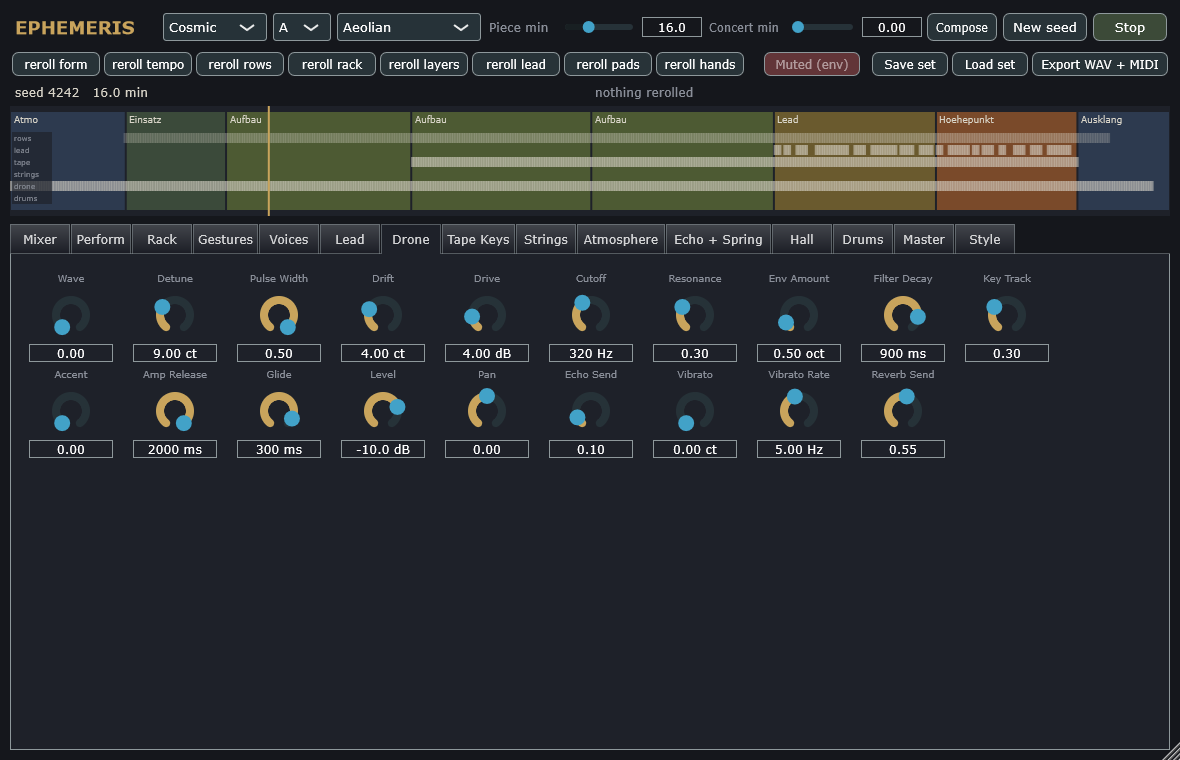
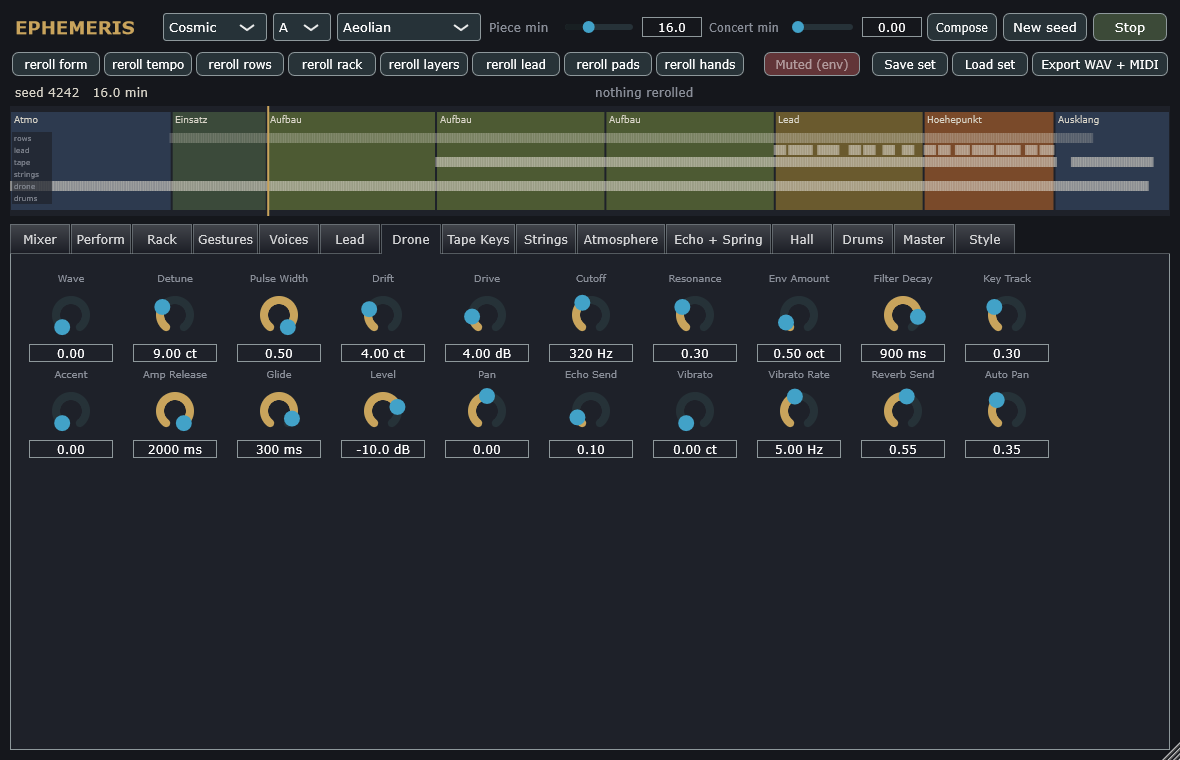
A second echo for the counter rows; manual for the style guide's further rules
Module echo2: a cleaner tape echo on a send of its own (row.echo2), with its
own time, feedback, tone, ping-pong and return, its repeats into the hall and
the rooms' stem. The composer sends the counter rows after the first into it,
in eighths or quarter triplets (1/4T, new in both echoes), with less of the
first echo (the style guide's 4.4, 4.5). The mixer's row strips get an Echo 2
knob and every strip keeps room for four, so the faders line up. Manual,
screenshots, PLAN and README for the thirds, the phase modes, the random
steps, the stereo field, the album form and the second echo.
New reference hashes.

diff --git a/Core/src/Engine.cpp b/Core/src/Engine.cpp
@@ -88,6 +88,7 @@ void Engine::load(const Score& score)
     voices_.prepare(sampleRate_, voiceSeeds);
     echo_.prepare(sampleRate_, 2.5, mixSeed(score_.seed, 200));
     bbd_.prepare(sampleRate_, 2.5, mixSeed(score_.seed, 210));
+    echo2_.prepare(sampleRate_, 2.5, mixSeed(score_.seed, 220));
     reverb_.prepare(sampleRate_);
     plate_.prepare(sampleRate_);
     tape_.prepare(sampleRate_, mixSeed(score_.seed, 500));
@@ -148,9 +149,9 @@ VoiceSettings Engine::voiceSettings(Module m, int instance, bool vibrato) const
     return s;
 }
 
-void Engine::setStrip(int s, float levelDb, float pan, float echo, float reverb, float width)
+void Engine::setStrip(int s, float levelDb, float pan, float echo, float reverb, float width, float echo2)
 {
-    const float in[5] = { levelDb, pan, echo, reverb, width };
+    const float in[6] = { levelDb, pan, echo, reverb, width, echo2 };
     if (!changed(cache_.strip[s], in, cache_.valid)) return;
     Strip& st = strips_[s];
     const float level = dbToGain(levelDb);
@@ -159,6 +160,7 @@ void Engine::setStrip(int s, float levelDb, float pan, float echo, float reverb,
     st.gainR = level * std::sin(a) * width;
     st.echo = echo;
     st.reverb = reverb;
+    st.echo2 = echo2;
 }
 
 void Engine::updateCell()
@@ -199,7 +201,8 @@ void Engine::updateCell()
             const float depth = played(params_.id(m, 0, lead::AutoPan));
             if (depth > 0.0f) pan += depth * static_cast<float>(std::sin(2.0 * 3.14159265358979 * 0.05 * seconds()));
         }
-        setStrip(r, s(row::Level, lead::Level), pan, s(row::EchoSend, lead::EchoSend), s(row::ReverbSend, lead::ReverbSend));
+        setStrip(r, s(row::Level, lead::Level), pan, s(row::EchoSend, lead::EchoSend), s(row::ReverbSend, lead::ReverbSend), 1.0f,
+                 row ? played(params_.id(Module::Row, r, row::Echo2Send)) : 0.0f);
     }
 
     // The tape keys, the string machine, the drums, the atmosphere.
@@ -293,6 +296,22 @@ void Engine::updateCell()
         if (bbdOn_) bbd_.set(es); else echo_.set(es);
     }
     echoReturn_ = dbToGain(knob(Module::Echo, echo::Return));
+    // The second echo: clean, a little wow, its own time and return.
+    EchoSettings e2;
+    e2.delaySeconds = echoTimeBeats(static_cast<EchoTime>(static_cast<int>(knob(Module::Echo2, echo2::Time)))) * 60.0 / bpm;
+    e2.feedback = knob(Module::Echo2, echo2::Feedback);
+    e2.toneHz = knob(Module::Echo2, echo2::Tone);
+    e2.wowMs = 0.3f;
+    e2.flutterMs = 0.03f;
+    e2.driveDb = 2.0f;
+    e2.pingPong = knob(Module::Echo2, echo2::PingPong) >= 0.5f;
+    const EchoSettings& l2 = cache_.echo2;
+    if (!cache_.valid || l2.delaySeconds != e2.delaySeconds || l2.feedback != e2.feedback || l2.toneHz != e2.toneHz
+        || l2.pingPong != e2.pingPong) {
+        cache_.echo2 = e2;
+        echo2_.set(e2);
+    }
+    echo2Return_ = dbToGain(knob(Module::Echo2, echo2::Return));
     plateOn_ = knob(Module::Reverb, reverb::Type) >= 0.5f;
     const float hall[7] = { knob(Module::Reverb, reverb::Size), knob(Module::Reverb, reverb::Decay), knob(Module::Reverb, reverb::Damping),
                             knob(Module::Reverb, reverb::PreDelay) * 0.001f * static_cast<float>(sampleRate_),
@@ -344,6 +363,8 @@ void Engine::mix(int source, const float* xl, const float* xr, int n, const Buse
         if (echoSend) { b.echoL[i] += l * echo; b.echoR[i] += r * echo; }
         b.hallL[i] += l * strip.reverb;
         b.hallR[i] += r * strip.reverb;
+        b.echo2L[i] += l * strip.echo2;
+        b.echo2R[i] += r * strip.echo2;
     }
     if (metering_) {
         // What the strip put into the mix, read again: the sums above are not touched.
@@ -366,14 +387,16 @@ void Engine::mix(int source, const float* xl, const float* xr, int n, const Buse
 
 void Engine::renderSpan(float* L, float* R, int n)
 {
-    float bufL[kCell], bufR[kCell], echoL[kCell], echoR[kCell], hallInL[kCell], hallInR[kCell];
+    float bufL[kCell], bufR[kCell], echoL[kCell], echoR[kCell], hallInL[kCell], hallInR[kCell], echo2L[kCell], echo2R[kCell];
     std::fill(L, L + n, 0.0f);
     std::fill(R, R + n, 0.0f);
     std::fill(echoL, echoL + n, 0.0f);
     std::fill(echoR, echoR + n, 0.0f);
     std::fill(hallInL, hallInL + n, 0.0f);
     std::fill(hallInR, hallInR + n, 0.0f);
-    const Buses b{ L, R, echoL, echoR, hallInL, hallInR };
+    std::fill(echo2L, echo2L + n, 0.0f);
+    std::fill(echo2R, echo2R + n, 0.0f);
+    const Buses b{ L, R, echoL, echoR, hallInL, hallInR, echo2L, echo2R };
     if (metering_) meterCount_ += n;
 
     // The sources, each through its strip, in a fixed order (the order of the sums is part of the result).
@@ -418,10 +441,13 @@ void Engine::renderSpan(float* L, float* R, int n)
         wetL[i] += sprL[i] * springReturn_ / std::max(echoReturn_, 1e-6f);
         wetR[i] += sprR[i] * springReturn_ / std::max(echoReturn_, 1e-6f);
     }
-    // The echo's repeats go into the hall too, as they do on a desk where the echo returns to a channel.
+    // The second echo, beside the first.
+    float wet2L[kCell] = {}, wet2R[kCell] = {};
+    echo2_.process(echo2L, echo2R, wet2L, wet2R, n);
+    // The echoes' repeats go into the hall too, as they do on a desk where the echo returns to a channel.
     for (int i = 0; i < n; ++i) {
-        hallInL[i] += wetL[i] * echoReturn_ * 0.5f;
-        hallInR[i] += wetR[i] * echoReturn_ * 0.5f;
+        hallInL[i] += wetL[i] * echoReturn_ * 0.5f + wet2L[i] * echo2Return_ * 0.5f;
+        hallInR[i] += wetR[i] * echoReturn_ * 0.5f + wet2R[i] * echo2Return_ * 0.5f;
     }
     if (plateOn_) {
         std::fill(hallL, hallL + n, 0.0f);
@@ -432,11 +458,11 @@ void Engine::renderSpan(float* L, float* R, int n)
     }
     for (int i = 0; i < n; ++i) {
         if (stemL_ != nullptr) {
-            stemL_[kChannels][spanAt_ + i] = wetL[i] * echoReturn_ + hallL[i] * reverbReturn_;
-            stemR_[kChannels][spanAt_ + i] = wetR[i] * echoReturn_ + hallR[i] * reverbReturn_;
+            stemL_[kChannels][spanAt_ + i] = wetL[i] * echoReturn_ + wet2L[i] * echo2Return_ + hallL[i] * reverbReturn_;
+            stemR_[kChannels][spanAt_ + i] = wetR[i] * echoReturn_ + wet2R[i] * echo2Return_ + hallR[i] * reverbReturn_;
         }
-        L[i] = (L[i] + wetL[i] * echoReturn_ + hallL[i] * reverbReturn_) * master_;
-        R[i] = (R[i] + wetR[i] * echoReturn_ + hallR[i] * reverbReturn_) * master_;
+        L[i] = (L[i] + wetL[i] * echoReturn_ + wet2L[i] * echo2Return_ + hallL[i] * reverbReturn_) * master_;
+        R[i] = (R[i] + wetR[i] * echoReturn_ + wet2R[i] * echo2Return_ + hallR[i] * reverbReturn_) * master_;
     }
     comp_.process(L, R, n);
     limiter_.process(L, R, n);

diff --git a/Core/include/eph/Engine.h b/Core/include/eph/Engine.h
@@ -147,19 +147,21 @@ private:
         float gainR = 0.0f;     ///< level into the right channel
         float echo = 0.0f;      ///< send into the tape echo (and its springs)
         float reverb = 0.0f;    ///< send into the hall
+        float echo2 = 0.0f;     ///< send into the second echo (the rows)
     };
     /** @brief The buses of one span: the mix, the echo send, the hall send. */
     struct Buses {
         float* L; float* R;             ///< the dry mix (the output buffers)
         float* echoL; float* echoR;     ///< into the tape echo
         float* hallL; float* hallR;     ///< into the hall
+        float* echo2L; float* echo2R;   ///< into the second echo
     };
     void updateCell();
     void renderSpan(float* L, float* R, int n);
     /** @brief A voice's settings from a module laid out like the voice table (voice, lead, drone). */
     VoiceSettings voiceSettings(Module m, int instance, bool vibrato) const;
     /** @brief Level, equal-power pan (times @p width) and sends of strip @p s. */
-    void setStrip(int s, float levelDb, float pan, float echo, float reverb, float width = 1.0f);
+    void setStrip(int s, float levelDb, float pan, float echo, float reverb, float width = 1.0f, float echo2 = 0.0f);
     /** @brief Adds source @p source's output through its strip to the buses (and the meter); @p echoSend false
      *         leaves the echo send alone. */
     void mix(int source, const float* xl, const float* xr, int n, const Buses& b, bool echoSend = true);
@@ -187,13 +189,14 @@ private:
     Atmos atmos_;
     TapeEcho echo_;
     BbdEcho bbd_;          ///< echo.type BBD instead of the tape echo, on the same send
+    TapeEcho echo2_;       ///< the second echo (module echo2): its own time for the counter rows
     Plate plate_;          ///< reverb.type Plate instead of the hall, on the same send
     bool bbdOn_ = false, plateOn_ = false;   ///< echo.type and reverb.type at the current cell
     Spring spring_;
     Reverb reverb_;
     BusCompressor comp_;
     TruePeakLimiter limiter_;
-    float echoReturn_ = 0.0f, springReturn_ = 0.0f, reverbReturn_ = 0.0f, master_ = 1.0f;
+    float echoReturn_ = 0.0f, springReturn_ = 0.0f, reverbReturn_ = 0.0f, master_ = 1.0f, echo2Return_ = 0.0f;
     int transpose_ = 0;   ///< perform.transpose at the current cell, for the notes that start
     int tapeSingers_ = kSingers;   ///< setTapeSingers()
     float* const* stemL_ = nullptr;   ///< setStems(), left
@@ -210,13 +213,14 @@ private:
     struct SetCache {
         bool valid = false;                   ///< false: every setter runs at the next cell
         VoiceSettings voice[kModVoices];      ///< ModVoiceBank::set
-        float strip[kSources][5] = {};        ///< setStrip: level, pan, echo, reverb, width
+        float strip[kSources][6] = {};        ///< setStrip: level, pan, echo, reverb, width, echo 2
         TapeSettings tape;                    ///< TapeKeys::set
         StringSettings strings;               ///< StringMachine::set
         DrumSettings drums;                   ///< DrumKit::set
         AtmosSettings atmos;                  ///< Atmos::set
         EchoSettings echo;                    ///< TapeEcho::set, BbdEcho::set
         int echoType = -1;                    ///< which of the two took it
+        EchoSettings echo2;                   ///< the second echo's TapeEcho::set
         float reverb[7] = {};                 ///< Reverb::set or Plate::set, and which
         float spring[2] = {};                 ///< Spring::set
         float compress = 0.0f, ceiling = 0.0f;   ///< BusCompressor::set, TruePeakLimiter::set

diff --git a/Core/src/Params.cpp b/Core/src/Params.cpp
@@ -24,12 +24,12 @@ const char* const kRegistrationNames[] = { "Violins", "Violas", "Cellos", "Basse
 const char* const kRowDivisionNames[] = { "1/4", "1/8", "1/8 T", "1/16", "1/16 T", "1/32", "1 Bar", "2 Bars", "4 Bars" };
 const char* const kRowDirectionNames[] = { "Forward", "Backward", "Pendulum", "Random Walk" };
 const char* const kRowModeNames[] = { "Notes", "Transposer" };
-const char* const kEchoTimeNames[] = { "1/16", "1/8", "3/16", "1/4", "3/8", "1/2" };
+const char* const kEchoTimeNames[] = { "1/16", "1/8", "3/16", "1/4", "3/8", "1/2", "1/4T" };
 const char* const kTapeSetNames[] = { "Choir", "Strings", "Flute" };
 
 double echoTimeBeats(EchoTime t)
 {
-    static const double kBeats[] = { 0.25, 0.5, 0.75, 1.0, 1.5, 2.0 };
+    static const double kBeats[] = { 0.25, 0.5, 0.75, 1.0, 1.5, 2.0, 2.0 / 3.0 };
     const int i = static_cast<int>(t);
     return i >= 0 && i < static_cast<int>(EchoTime::Count) ? kBeats[i] : 0.75;
 }
@@ -80,6 +80,7 @@ const ParamDesc kRowParams[row::Count] = {
     { "echo",      "Echo Send",  "",      0.0f,  1.0f,  0.3f, Curve::Linear },
     { "mode",      "Mode",       "",      0.0f,  1.0f,  0.0f, Curve::Choice, kRowModeNames },
     { "reverb",    "Reverb Send", "",     0.0f,  1.0f,  0.3f, Curve::Linear },
+    { "echo2",     "Echo 2 Send", "",     0.0f,  1.0f,  0.0f, Curve::Linear },
 };
 
 /**
@@ -279,7 +280,7 @@ const ParamDesc kReverbParams[reverb::Count] = {
 };
 
 const ParamDesc kEchoParams[echo::Count] = {
-    { "time",      "Time",        "",       0.0f,    5.0f,    2.0f, Curve::Choice, kEchoTimeNames },
+    { "time",      "Time",        "",       0.0f,    6.0f,    2.0f, Curve::Choice, kEchoTimeNames },
     { "feedback",  "Feedback",    "",       0.0f,    1.1f,    0.45f, Curve::Linear },   // above 1: runaway, held by the tape
     { "tone",      "Tone",        "Hz",   800.0f, 12000.0f, 3500.0f, Curve::Log },      // loop low pass
     { "wow",       "Wow",         "ms",     0.0f,    4.0f,    0.6f, Curve::Linear },
@@ -321,6 +322,15 @@ struct ModuleSpec {
     const char* const* instanceNames = nullptr;   ///< prefixes of the instances instead of prefix + number
 };
 
+/** The second echo (Engine: its own tape echo, a little wow, no springs). */
+const ParamDesc kEcho2Params[echo2::Count] = {
+    { "time",      "Echo 2 Time",     "",       0.0f,    6.0f,    1.0f, Curve::Choice, kEchoTimeNames },
+    { "feedback",  "Echo 2 Feedback", "",       0.0f,    1.0f,    0.3f, Curve::Linear },
+    { "tone",      "Echo 2 Tone",     "Hz",   800.0f, 12000.0f, 5000.0f, Curve::Log },
+    { "pingpong",  "Echo 2 Ping-Pong", "",      0.0f,    1.0f,    1.0f, Curve::Toggle },
+    { "return",    "Echo 2 Return",   "dB",   -60.0f,    6.0f,   -6.0f, Curve::Linear },
+};
+
 const ModuleSpec kModules[static_cast<int>(Module::Count)] = {
     { "compose", kComposeParams, compose::Count, 1 },
     { "row",     kRowParams,     row::Count,     kRows },
@@ -338,6 +348,7 @@ const ModuleSpec kModules[static_cast<int>(Module::Count)] = {
     { "perform", kPerformParams, perform::Count, 1 },
     { "cue",     kCueParams,     cue::Count,     1 },
     { "custom",  kCustomParams,  custom::Count,  1 },
+    { "echo2",   kEcho2Params,   echo2::Count,   1 },
 };
 
 bool isDiscrete(Curve c) { return c == Curve::Int || c == Curve::Choice || c == Curve::Toggle; }

diff --git a/Core/include/eph/Params.h b/Core/include/eph/Params.h
@@ -79,6 +79,8 @@ enum class Module : int { Compose = 0, Row, Master,
                           Cue,
                           /** Phase 5: a style profile of the user's own (the Style tab; Style.h, customProfile). */
                           Custom,
+                          /** 25.09.2026: a second echo, its own time for the counter rows (the style guide's 4.4, 4.5). */
+                          Echo2,
                           Count };
 
 constexpr int kRows = 8;   ///< instances of the row module (the rows of the rack) and of the voice module
@@ -102,7 +104,9 @@ enum : int { Active, Length, Division, Direction, Octave, Transpose, Mutation, G
              // Phase 2: what the row does -- plays notes, or transposes the rows that play (PLAN 5.1).
              Mode,
              // Phase 3: the send into the hall.
-             ReverbSend, Count };
+             ReverbSend,
+             // 25.09.2026: the send into the second echo.
+             Echo2Send, Count };
 }
 /** @brief Parameters of the master section. */
 namespace master {
@@ -193,13 +197,19 @@ enum : int { Size, Decay, Damping, PreDelay, LowCut, HighCut, Return,
 }
 static_assert(static_cast<int>(lead::Glide) == static_cast<int>(voice::Glide), "the first parameters of the lead are those of the voice, in the same order");
 /** @brief Parameters of the tape echo (module Echo; PLAN 5.8). */
+/** @brief Parameters of the second echo (module Echo2): a clean tape echo with its own time and return. */
+namespace echo2 {
+enum : int { Time, Feedback, Tone, PingPong, Return, Count };
+}
 namespace echo {
 enum : int { Time, Feedback, Tone, Wow, Flutter, Drive, PingPong, Return,
              // Phase 5: the tape echo (TapeEcho.h) or the bucket-brigade delay (Bbd.h), on the same send.
              Type, Count };
 }
 /** @brief The echo times, in the order of echo.time. */
-enum class EchoTime : int { Sixteenth = 0, Eighth, EighthD, Quarter, QuarterD, Half, Count };
+enum class EchoTime : int { Sixteenth = 0, Eighth, EighthD, Quarter, QuarterD, Half,
+                             /** 25.09.2026: the quarter triplet of the style guide's 4.4. */
+                             QuarterT, Count };
 /** @brief Length of an echo time in beats. */
 double echoTimeBeats(EchoTime t);
 extern const char* const kEchoTimeNames[];      ///< names of echo.time

diff --git a/Core/src/compose/Composer.cpp b/Core/src/compose/Composer.cpp
@@ -476,15 +476,24 @@ void writeSettings(Piece& c)
     // to alternating sides, the lead a little off the middle, the drone wandering slowly across. Drawn on the rows' unit.
     Rng pans;
     pans.seed(mixSeed(c.seedOf(sRows), 0x70u));
-    auto panTo = [&](int id, float v) { c.s.gestures.push_back({ id, 0.0, 0.0, 0.0f, offsetTo(p, id, v), G::Step, 1 }); };
-    panTo(p.id(Module::Row, 0, row::Pan), 0.0f);
+    auto setTo = [&](int id, float v) { c.s.gestures.push_back({ id, 0.0, 0.0, 0.0f, offsetTo(p, id, v), G::Step, 1 }); };
+    setTo(p.id(Module::Row, 0, row::Pan), 0.0f);
     const float side = pans.uniform() < 0.5f ? -1.0f : 1.0f;
     for (int k = 0; k < c.counters; ++k) {
         const float amount = k == 0 ? 0.1f * pans.uniform() : 0.3f + 0.2f * pans.uniform();
-        panTo(p.id(Module::Row, k + 1, row::Pan), (k % 2 == 0 ? side : -side) * amount);
+        setTo(p.id(Module::Row, k + 1, row::Pan), (k % 2 == 0 ? side : -side) * amount);
     }
-    panTo(p.id(Module::Lead, 0, lead::Pan), -side * (0.1f + 0.1f * pans.uniform()));
-    panTo(p.id(Module::Drone, 0, lead::Pan), 0.0f);   // (its auto pan, drone.auto_pan, lets it wander)
+    setTo(p.id(Module::Lead, 0, lead::Pan), -side * (0.1f + 0.1f * pans.uniform()));
+    setTo(p.id(Module::Drone, 0, lead::Pan), 0.0f);   // (its auto pan, drone.auto_pan, lets it wander)
+    // Each layer its own delay (4.4, 4.5): the main sequence on the tape echo's dotted eighths, the other counter
+    // rows on the second echo in eighths or quarter triplets, with less of the first.
+    const int e2time = p.id(Module::Echo2, 0, echo2::Time);
+    const float e2 = static_cast<float>(pans.uniform() < 0.6f ? EchoTime::Eighth : EchoTime::QuarterT);
+    c.s.gestures.push_back({ e2time, 0.0, 0.0, 0.0f, offsetTo(p, e2time, e2), G::Step, 1 });
+    for (int k = 1; k < c.counters; ++k) {
+        setTo(p.id(Module::Row, k + 1, row::Echo2Send), 0.35f);
+        setTo(p.id(Module::Row, k + 1, row::EchoSend), 0.1f);
+    }
     // The hall grows in the spaces and shrinks at the peak (7.3): a slow glide at the start of each section,
     // written by the composer's own hand (3), apart from the player's two.
     float hallAt = offsetTo(p, hall, c.prof.hallSeconds);

diff --git a/Tests/selftest.cpp b/Tests/selftest.cpp
@@ -1354,6 +1354,36 @@ void testGuideExtras()
               fmt("%zu interludes, %d row notes in them, %zu pieces, Phrygian %d, Dorian at the end %d",
                   inter.size(), rowNotes, pieceStarts.size(), phrygian ? 1 : 0, dorianEnd ? 1 : 0));
     }
+    // The second echo: a row sent only into it comes back after its own time (an eighth: 0.5 beats), not before.
+    {
+        Score one;
+        one.clear(120.0);
+        one.notes.push_back({ 0.0, 0.1, Part::Row2, 57, 0.9f, false, false });
+        one.lengthBeats = 8.0;
+        auto render = [&](const char* setting) {
+            Engine e;
+            e.params().parseText("row2.echo=0 row2.reverb=0 echo2.time=1/8 echo2.feedback=0.3 echo2.return=0 master.level=0");
+            e.params().parseText(setting);
+            e.prepare(48000.0, 256);
+            e.load(one);
+            std::vector<float> out, L(256), R(256);
+            for (int done = 0; done < 48000 * 2; done += 256) {
+                e.process(L.data(), R.data(), 256);
+                for (int i = 0; i < 256; ++i) out.push_back(L[i] + R[i]);
+            }
+            return out;
+        };
+        const std::vector<float> dry = render("row2.echo2=0"), wet = render("row2.echo2=1");
+        auto energy = [&](double b0, double b1) {   // of the difference, between two beats at 120 BPM
+            double e = 0.0;
+            for (size_t i = static_cast<size_t>(b0 * 24000.0); i < static_cast<size_t>(b1 * 24000.0) && i < wet.size(); ++i)
+                e += double(wet[i] - dry[i]) * (wet[i] - dry[i]);
+            return e;
+        };
+        const double before = energy(0.1, 0.45), repeat = energy(0.5, 0.8);
+        check(repeat > 1e-3 && repeat > 100.0 * before, "the second echo returns a row after its own time",
+              fmt("difference %.2g before the eighth, %.2g after it", before, repeat));
+    }
 }
 
 /**

diff --git a/Plugin/EditorMixer.cpp b/Plugin/EditorMixer.cpp
@@ -90,6 +90,8 @@ void MixerStrip::resized()
         knobs_[i]->setBounds(row.removeFromTop(kh));
         knobNames_[i]->setBounds(row);
     }
+    // Room for the rows' four knobs on every strip, so the faders and meters line up across the console.
+    r.removeFromTop(static_cast<int>(4 - std::min<size_t>(4, knobs_.size())) * (kh + lh));
     r.removeFromTop(6);
     r.removeFromBottom(15);   // the peak readout
     const int half = r.getWidth() / 2;
@@ -178,6 +180,7 @@ MixerConsole::MixerConsole(EphemerisProcessor& proc) : proc_(proc)
         std::vector<std::pair<int, const char*>> knobs;
         if (pan >= 0) knobs.emplace_back(p.id(m, inst, pan), "Pan");
         knobs.emplace_back(p.id(m, inst, echoSend), "Echo");
+        if (c < kRows) knobs.emplace_back(p.id(m, inst, row::Echo2Send), "Echo 2");
         knobs.emplace_back(p.id(m, inst, reverbSend), "Hall");
         auto strip = std::make_unique<MixerStrip>(proc, Engine::channelName(c), colour, p.id(m, inst, level), knobs);
         addAndMakeVisible(*strip);

diff --git a/Plugin/PluginEditor.cpp b/Plugin/PluginEditor.cpp
@@ -304,7 +304,7 @@ EphemerisEditor::EphemerisEditor(EphemerisProcessor& p) : juce::AudioProcessorEd
     page("Tape Keys", { { M::Tape, 0 } }, 1);
     page("Strings", { { M::Strings, 0 } }, 1);
     page("Atmosphere", { { M::Atmos, 0 } }, 1);
-    page("Echo + Spring", { { M::Echo, 0 }, { M::Spring, 0 } }, 1);
+    page("Echo + Spring", { { M::Echo, 0 }, { M::Spring, 0 }, { M::Echo2, 0 } }, 1);
     page("Hall", { { M::Reverb, 0 } }, 1);
     page("Drums", { { M::Drums, 0 } }, 1);
     page("Master", { { M::Master, 0 }, { M::Compose, 0 }, { M::Cue, 0 } }, 1);

diff --git a/docs/PLAN.md b/docs/PLAN.md
@@ -29,6 +29,12 @@ umgesetzt (die Einträge darunter); offen ist, was einen Menschen, eine Installa
 
 **25.09.2026, nachmittags: String Machine nach dem Vorbild Streichfett, Stilguide umgesetzt** (alle vier
 Schritte erledigt; Release-Build mit pluginval Strenge 10 und Installer, Quest-APK gebaut).
+Danach die übrigen Regeln des Guides: Terzrückungen zwischen Phasen (-3, +4), eigener Moll-Modus je späterer
+Phase (Suitenteile, 6.5), Zufallsschritte über einen Quantizer (4.6; Anteil je Stil, Drift und Modern am
+meisten), Stereobild (7.3; Bass Mitte, Gegenreihen 30-50 % abwechselnd, Lead leicht außermittig) mit
+`drone.auto_pan` (Sinus 0,05 Hz), `compose.album` (Zwischenspiele von 3-5 Minuten ohne Reihen, dunkelstes
+Stück in der Mitte, ätherischer Schluss; ohne Album unverändert), das zweite Echo (Modul `echo2`, Send
+`row.echo2`, Zeit 1/8 oder 1/4T für die Gegenreihen ab der zweiten; `1/4T` auch im ersten Echo).
 Auftrag des Nutzers: die String Machine mehr wie Waldorfs Streichfett (Ensemble, Mischung der Register, langsames
 Animieren der Mischung) und den "Harmonie- und Stilguide Moderne Berlin School" (Downloads des Nutzers, Stand
 25.09.2026) umsetzen, soweit sinnvoll. Reihenfolge und Stand:

diff --git a/README.md b/README.md
@@ -23,7 +23,9 @@ The plan, the musical specification and the literature behind each building bloc
 - Harmony, sequencing and form after a style guide of the modern Berlin School: a chord track the bass
   follows under the unchanged sequence, sequencer transpositions, parallel changes of mode, eight modes;
   sequence archetypes, ratchets, probability gates, a doubled pulse, a sequence that loses its steps;
-  the open fifth at the end, the rooms and the lead's phrasing after the guide.
+  the open fifth at the end, the rooms and the lead's phrasing after the guide; a mode of its own for a
+  later phase, quantised random steps, the stereo field with a wandering drone, a second echo for the
+  counter rows, and concerts as albums with interludes.
 - Score cues over OSC for a visualiser (Kaleidoscope); stems; a gestures page and a style page.
 - The Quest app (built, not yet run on a headset), the release build with installer and pluginval, and the
   manual generator.
